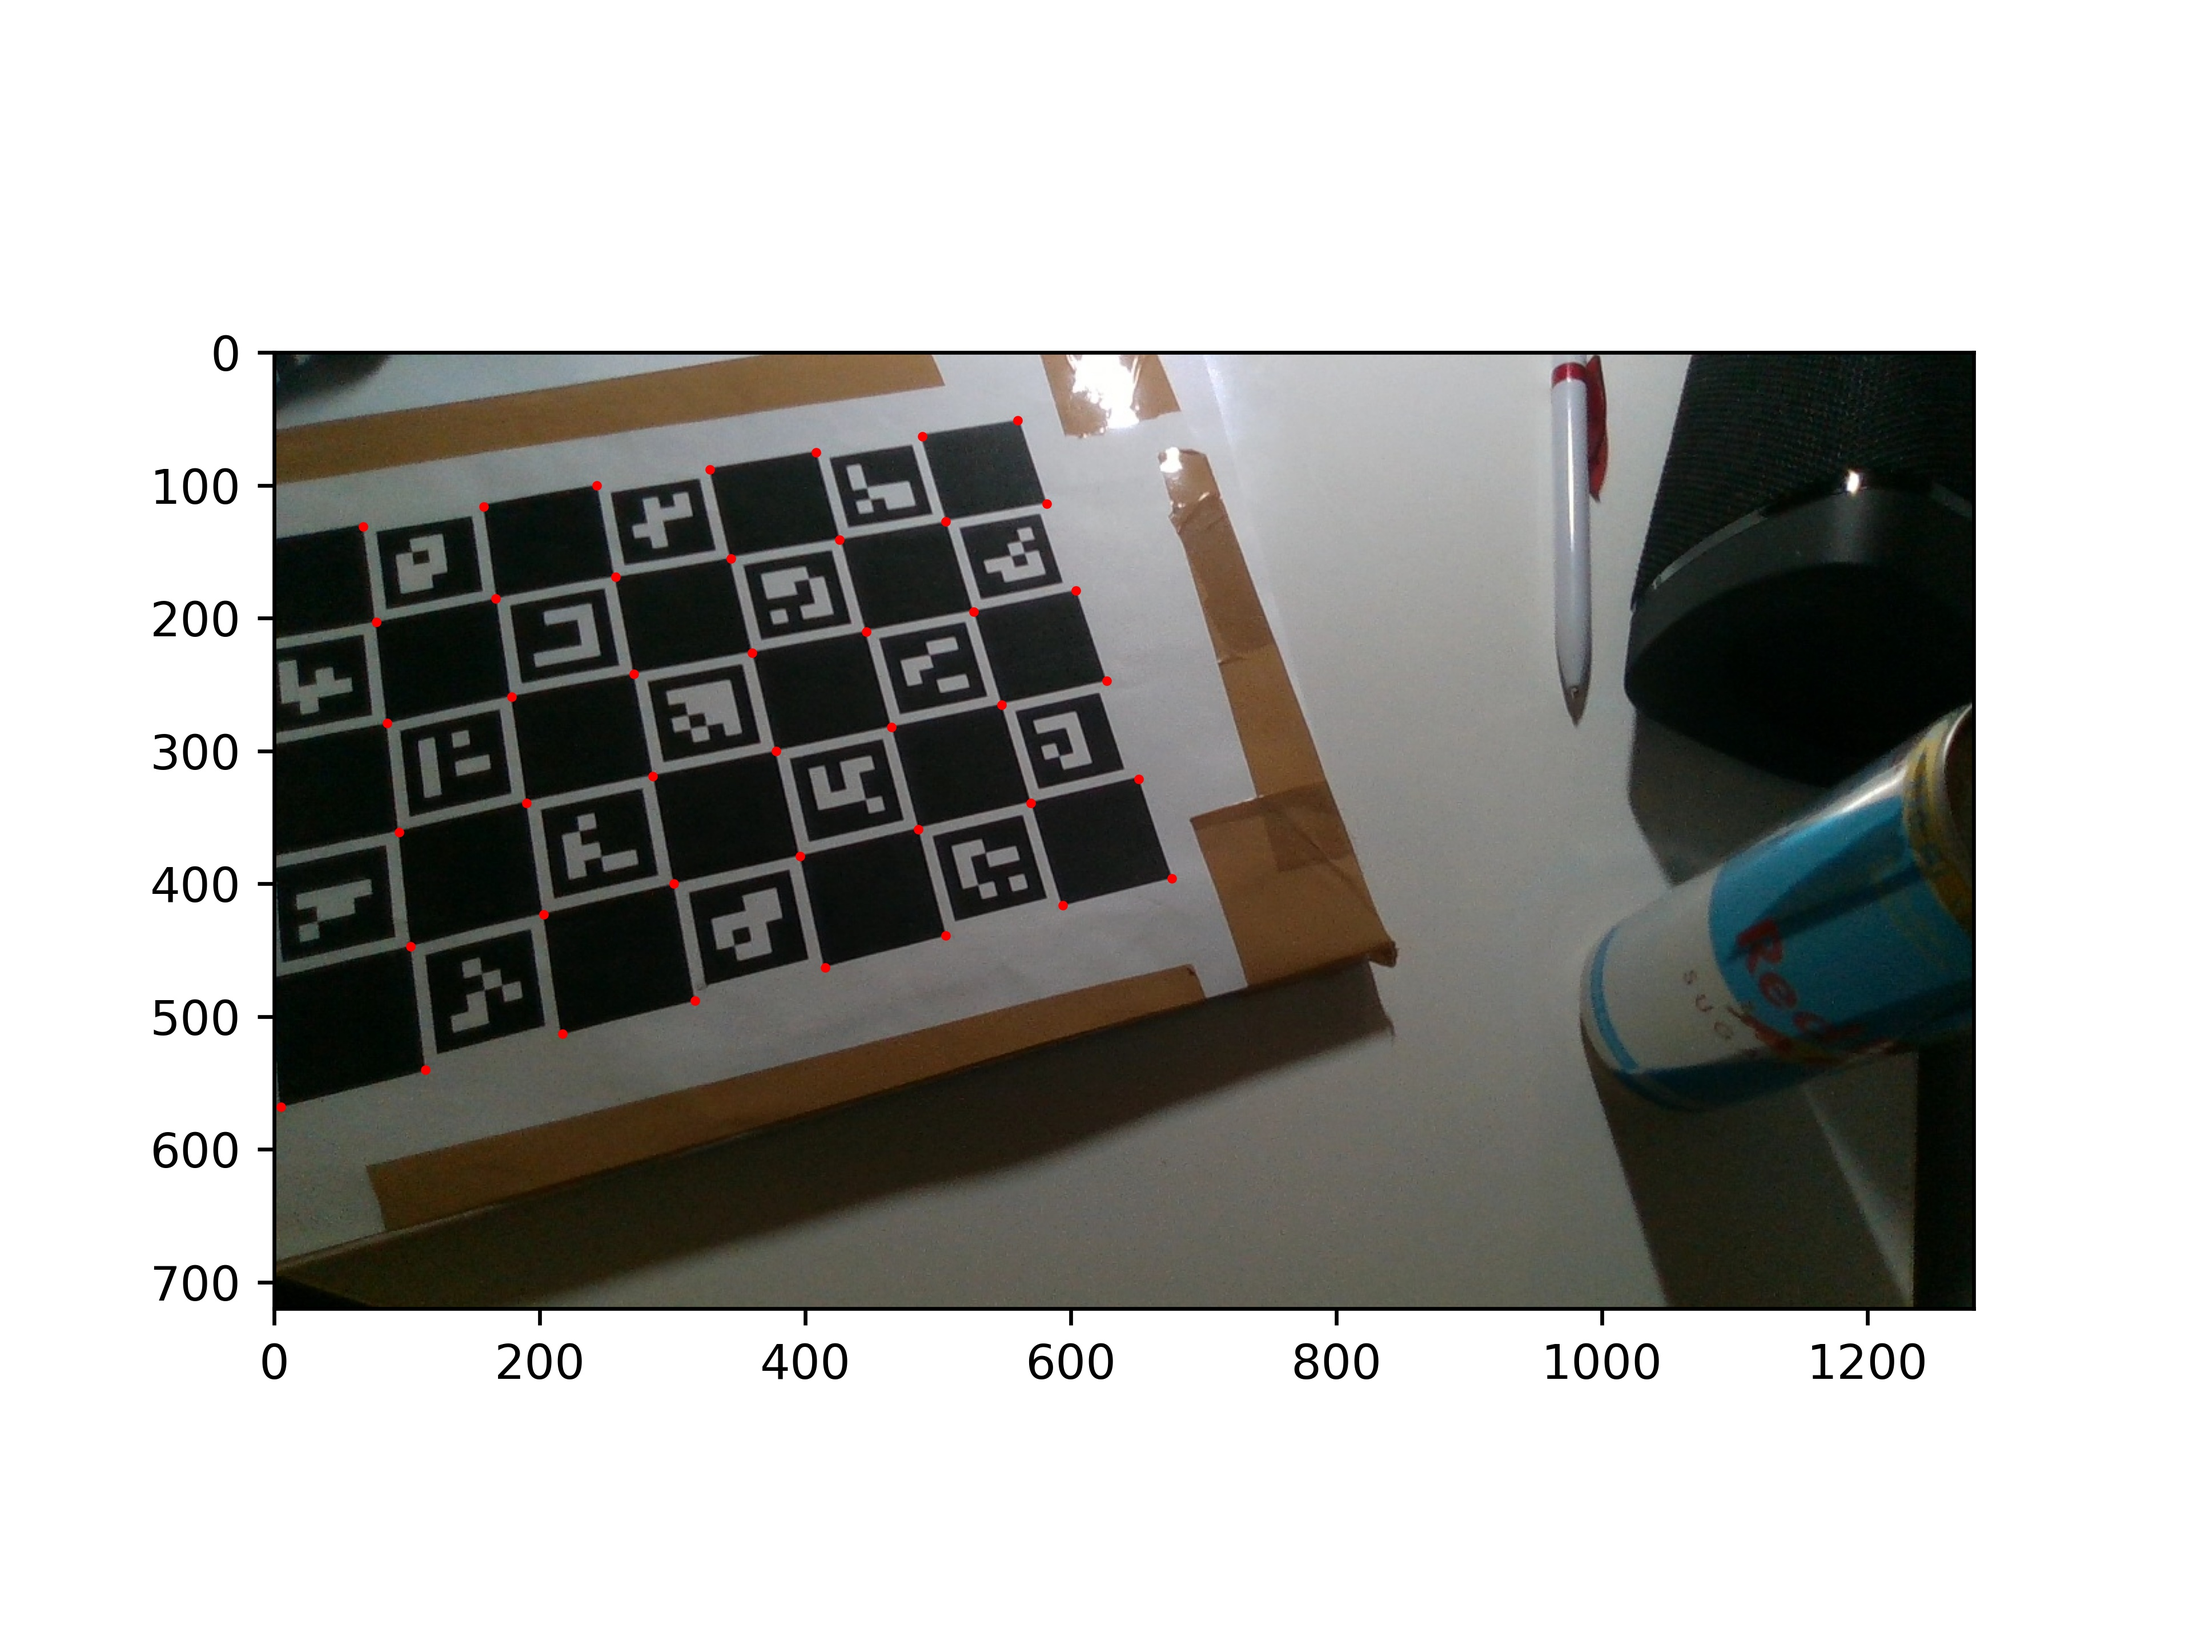
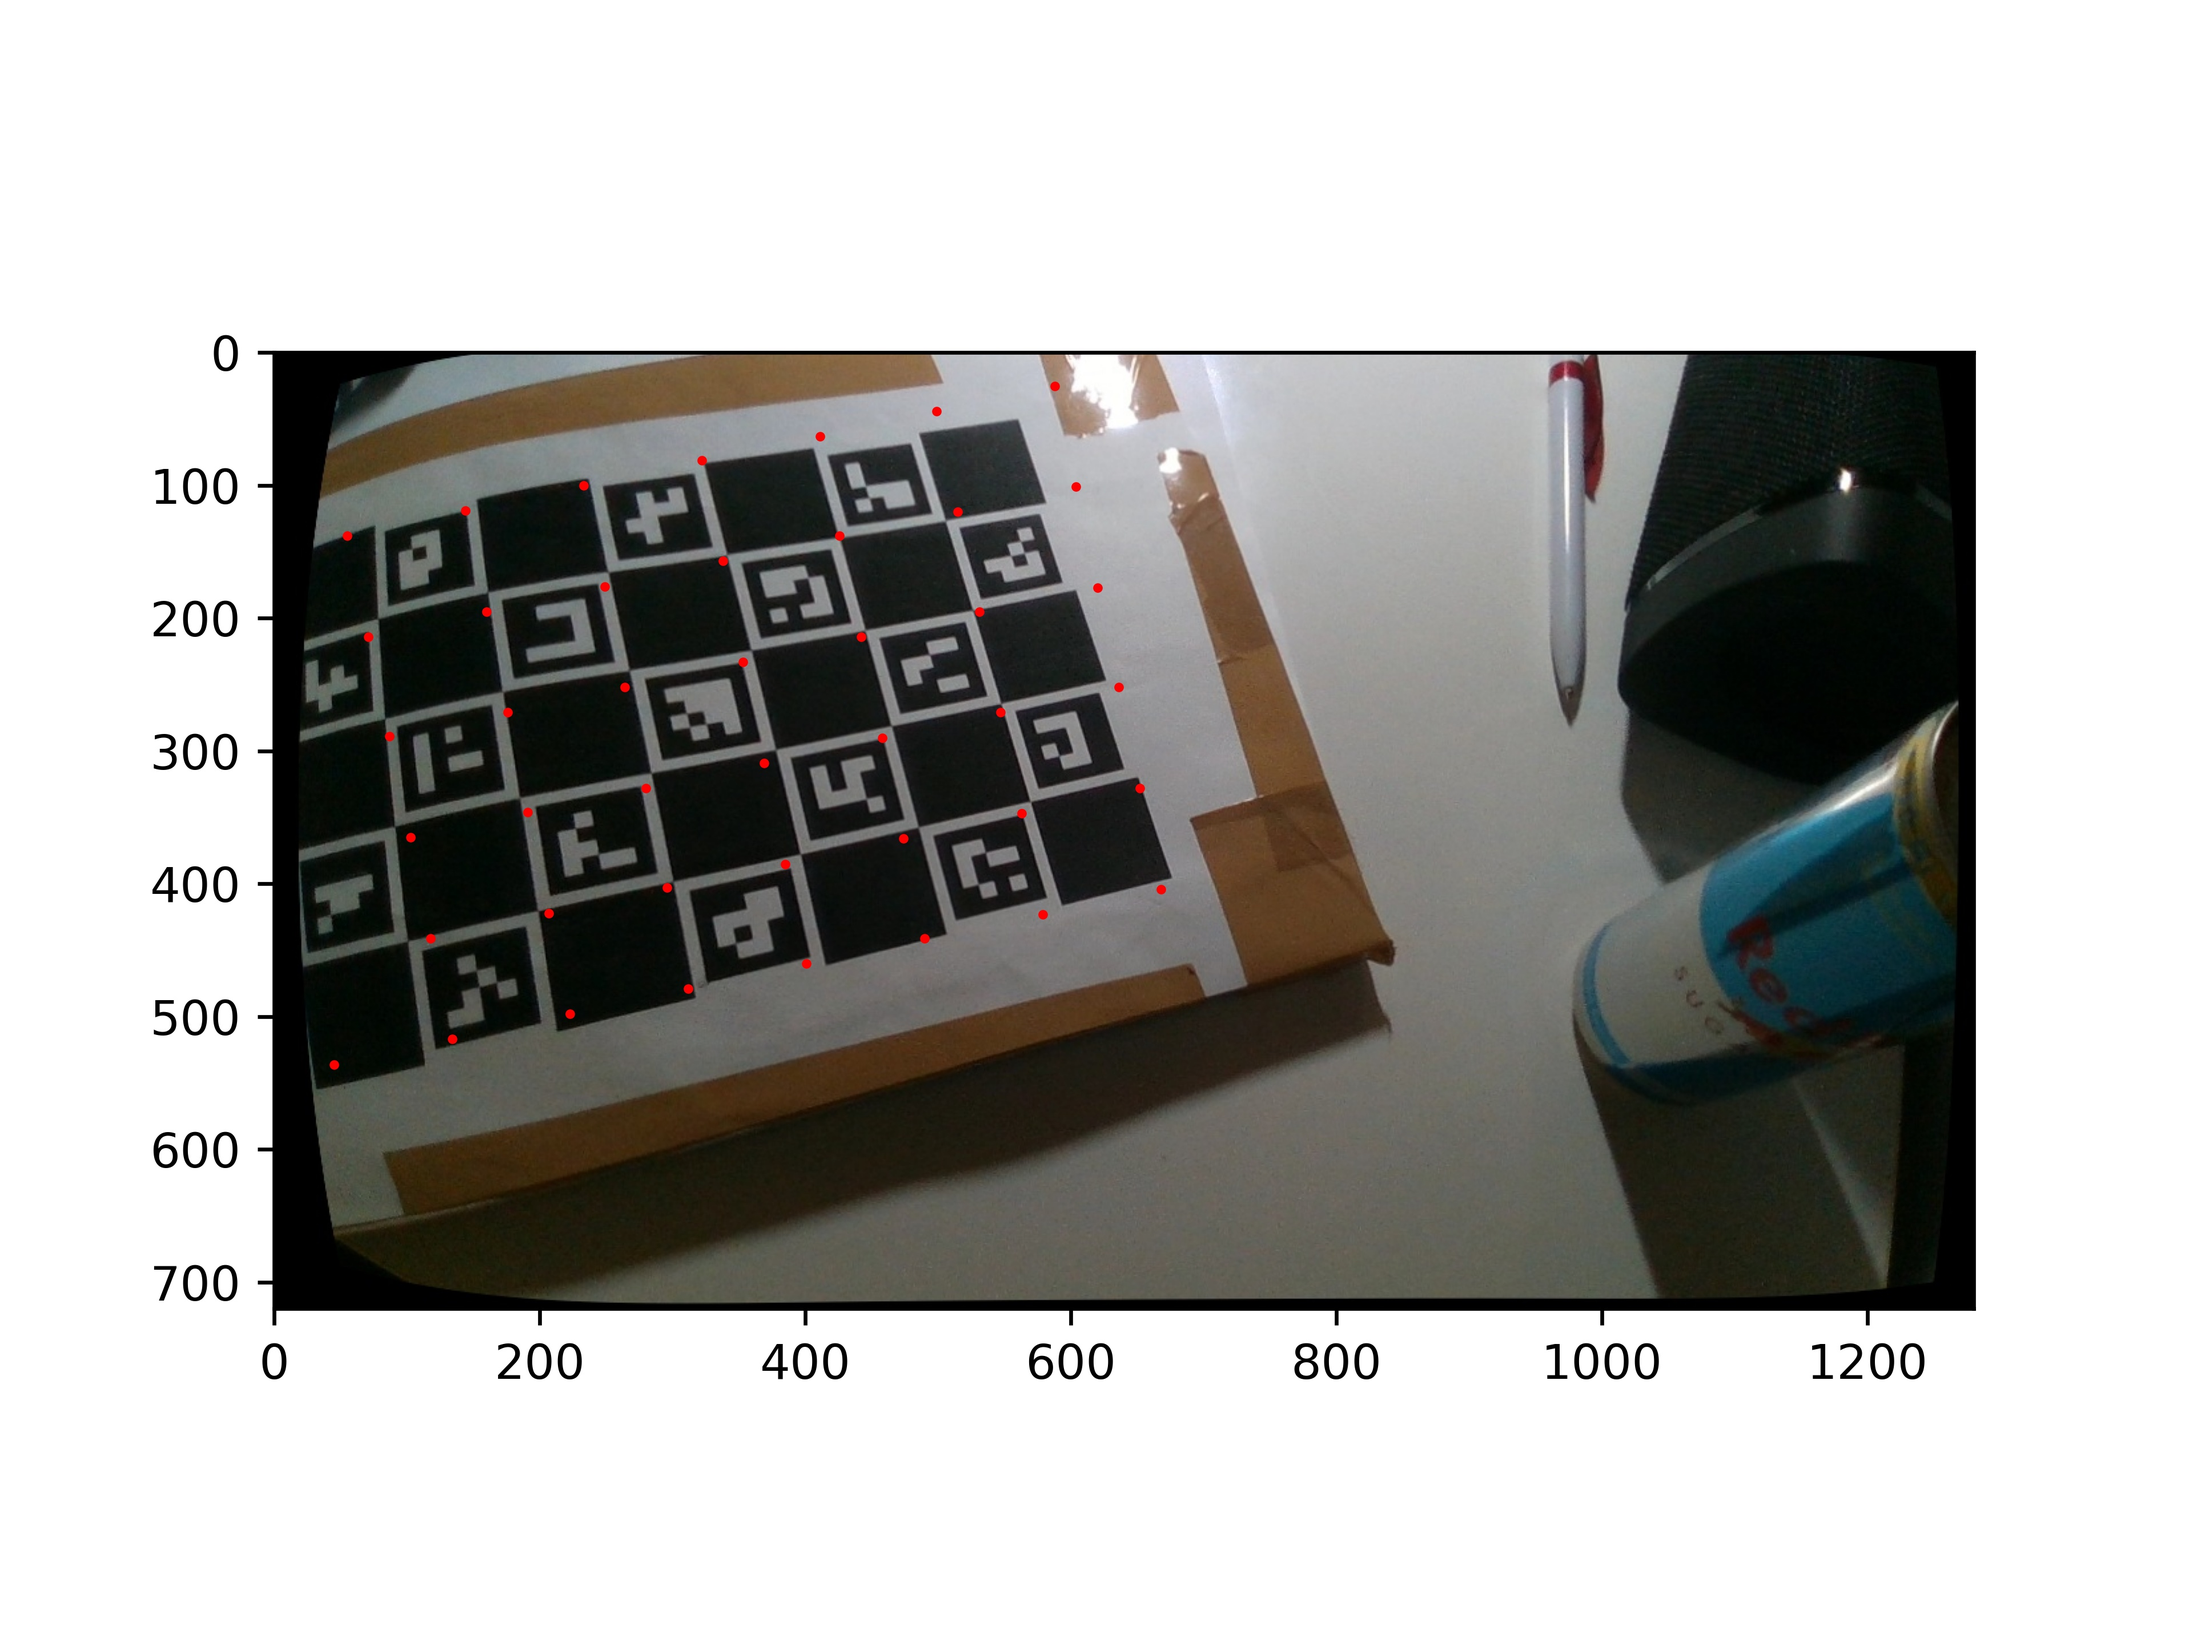
rename

diff --git a/camera_library/draw_plot.py b/camera_library/draw_plot.py
@@ -1,0 +1,41 @@
+import matplotlib.pyplot as plt
+import numpy as np
+import sys
+sys.path.append('./')
+import photos_from_realsense.description as desc
+
+
+A = desc.points2D_im1
+
+# Split the matrix into x and y coordinates
+x = []
+y = []
+for point in A:
+    x.append(point[1][0])
+    y.append(point[1][1])
+
+x = [45.0, 134.0, 223.0, 312.0, 401.0, 490.0, 579.0, 668.0, 
+     118.0, 207.0, 296.0, 385.0, 474.0, 563.0, 652.0, 103.0, 
+     191.0, 280.0, 369.0, 458.0, 547.0, 636.0, 87.0, 176.0, 
+     264.0, 353.0, 442.0, 531.0, 620.0, 71.0, 160.0, 249.0, 
+     338.0, 426.0, 515.0, 604.0, 55.0, 144.0, 233.0, 322.0, 
+     411.0, 499.0, 588.0]
+
+y = [536.0, 517.0, 498.0, 479.0, 460.0, 441.0, 423.0, 404.0, 
+     441.0, 422.0, 403.0, 385.0, 366.0, 347.0, 328.0, 365.0, 
+     346.0, 328.0, 309.0, 290.0, 271.0, 252.0, 289.0, 271.0, 
+     252.0, 233.0, 214.0, 195.0, 177.0, 214.0, 195.0, 176.0, 
+     157.0, 138.0, 120.0, 101.0, 138.0, 119.0, 100.0, 81.0, 
+     63.0, 44.0, 25.0]
+
+img = plt.imread("photos_from_realsense/undist1.jpg")
+fig, ax = plt.subplots()
+ax.imshow(img)
+
+# Plot the points
+plt.plot(x, y, 'r.', markersize=2)
+plt.xlim(0, 1280)
+plt.ylim(0, 720)
+plt.gca().invert_yaxis()
+
+plt.savefig('photos_from_realsense/plot1.jpg', dpi=600)

diff --git a/camera_library/undistort.py b/camera_library/undistort.py
@@ -1,0 +1,18 @@
+import cv2 as cv
+import numpy as np
+
+img = cv.imread('photos_from_realsense/im1.jpg')
+# h,  w = img.shape[:2]
+
+mtx = np.array([[929.74227726,   0.,         687.25873423],
+ [  0.,         927.24844324, 366.49210902],
+ [  0.,           0.,           1.        ]])
+dist = np.array([[ 0.20065356, -1.21660056,  0.00855403 , 0.00677988 , 1.90940938]])
+
+# newcameramtx, roi = cv.getOptimalNewCameraMatrix(mtx, dist, (w,h), 1, (w,h))
+
+dst = cv.undistort(img, mtx, dist)
+# crop the image
+# x, y, w, h = roi
+# dst = dst[y:y+h, x:x+w]
+cv.imwrite('photos_from_realsense/undist1.jpg', dst)
